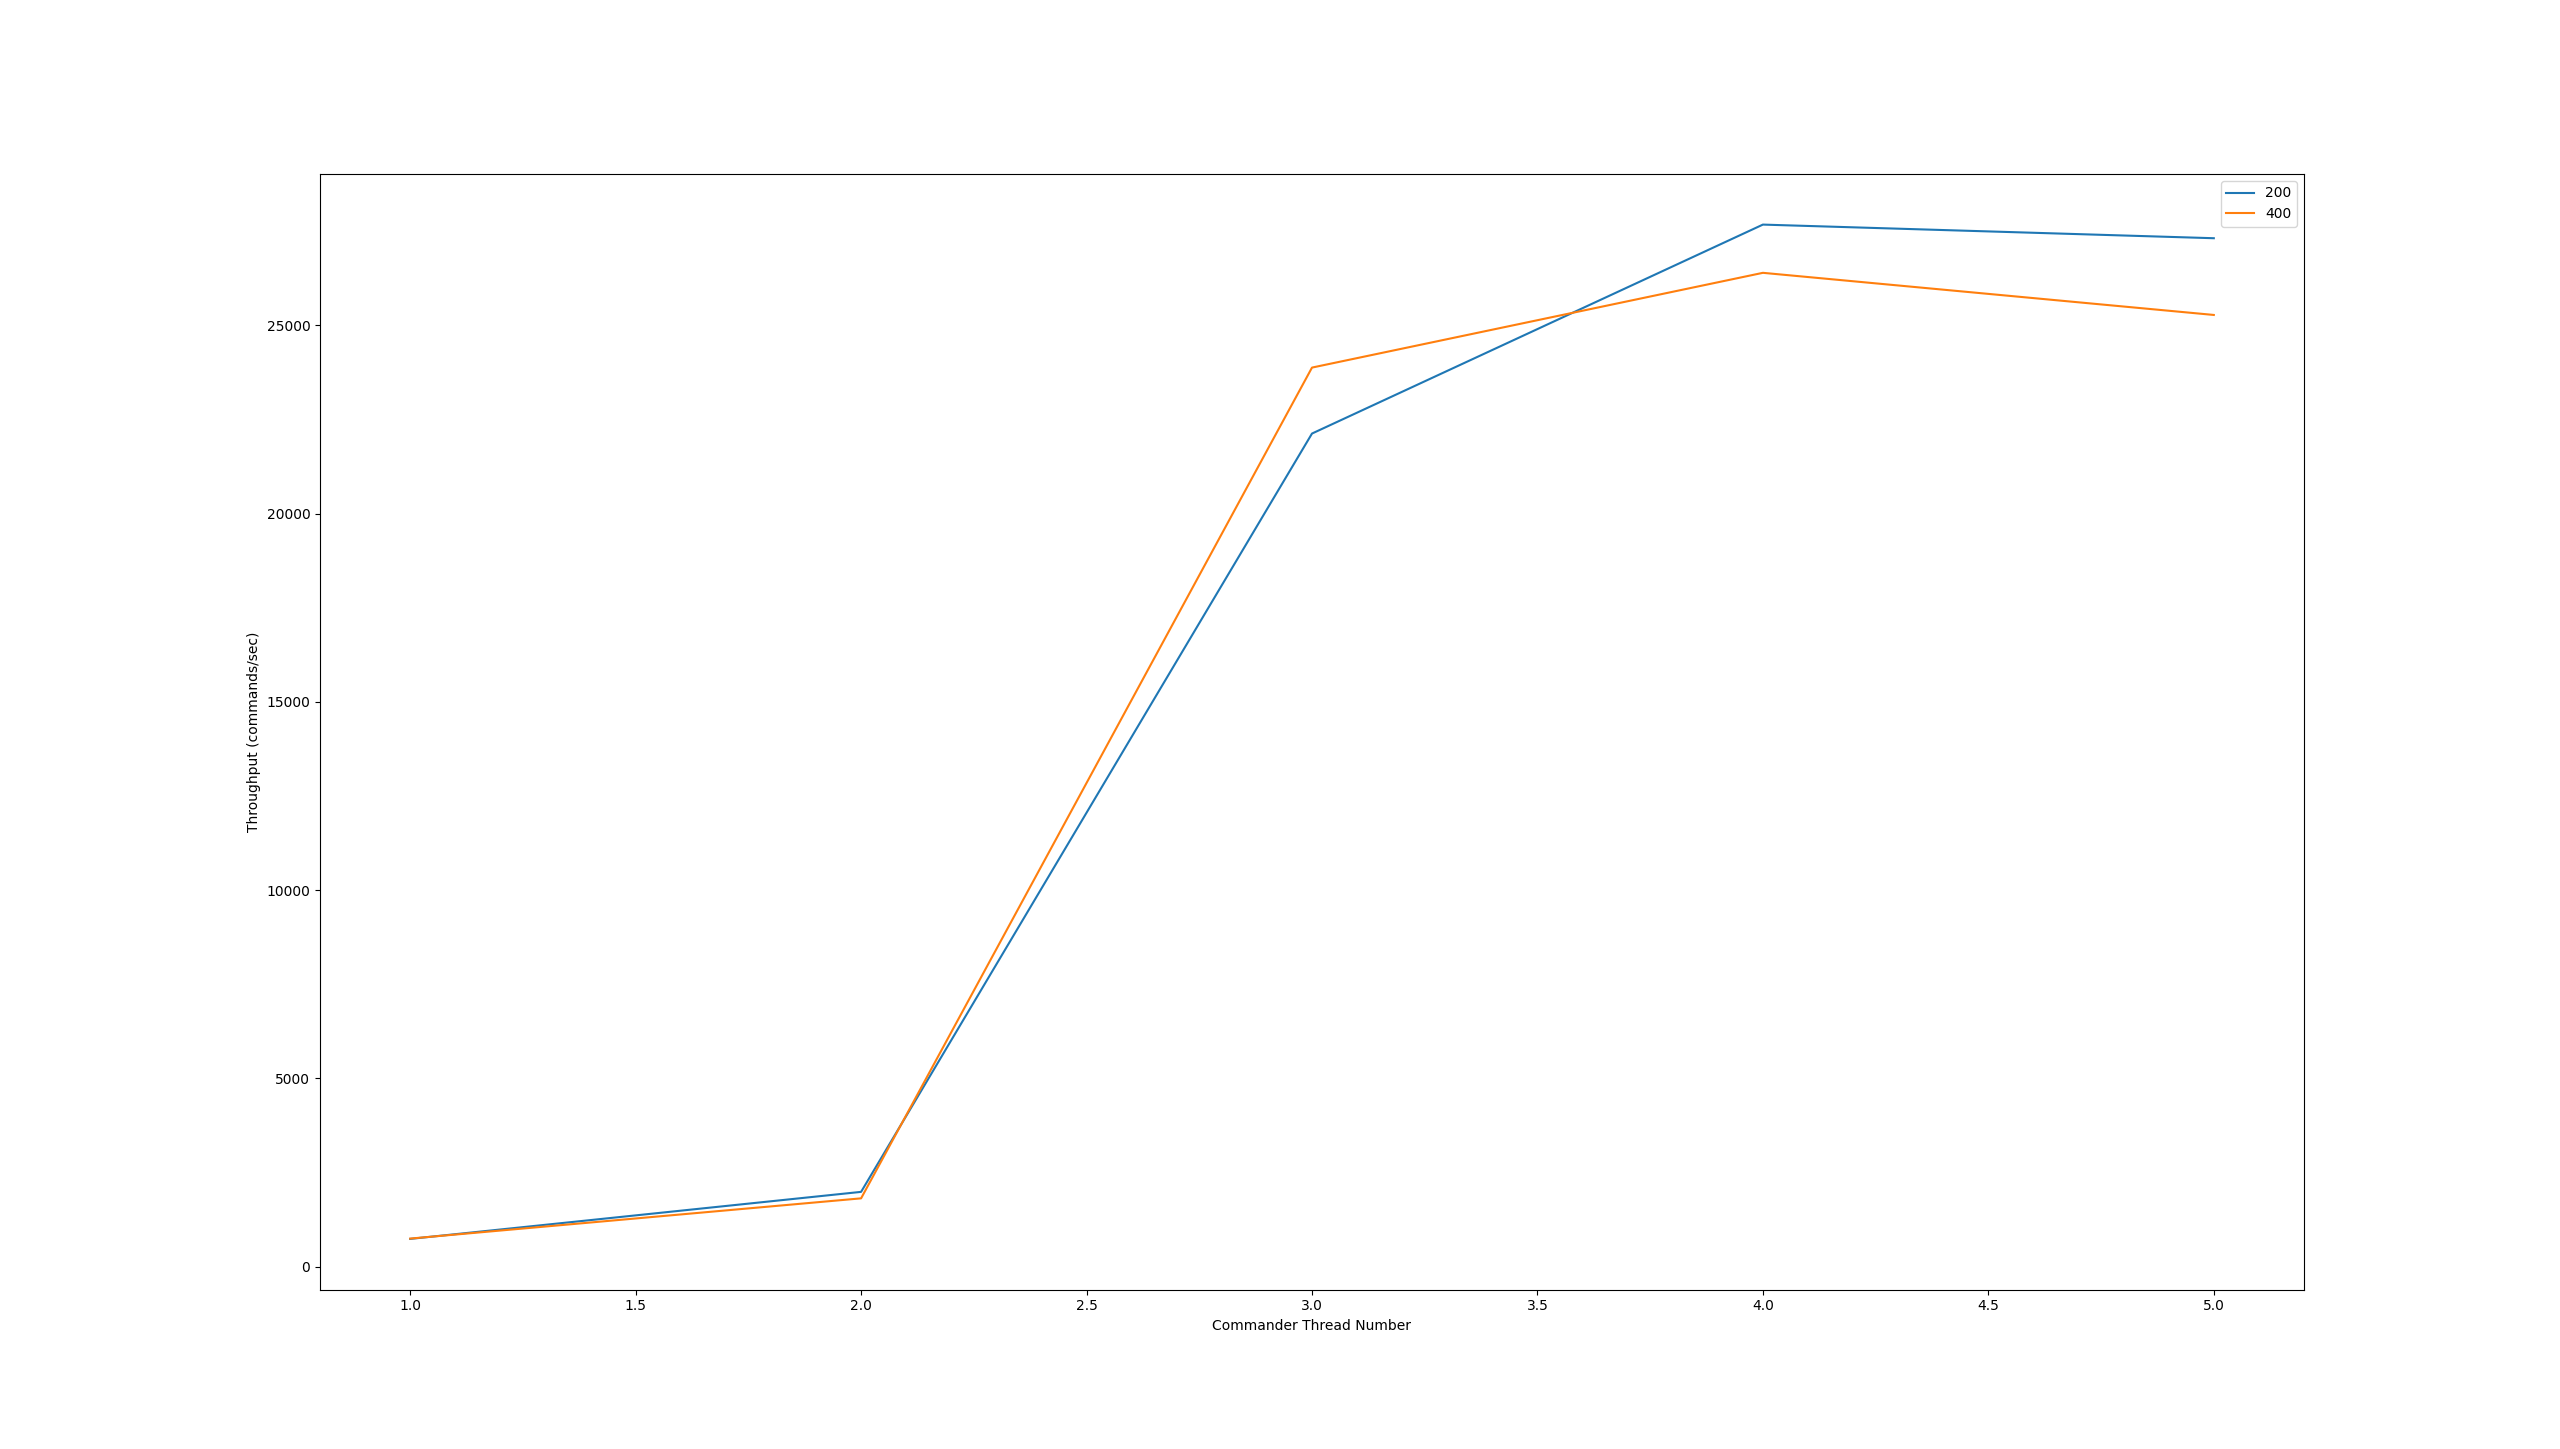
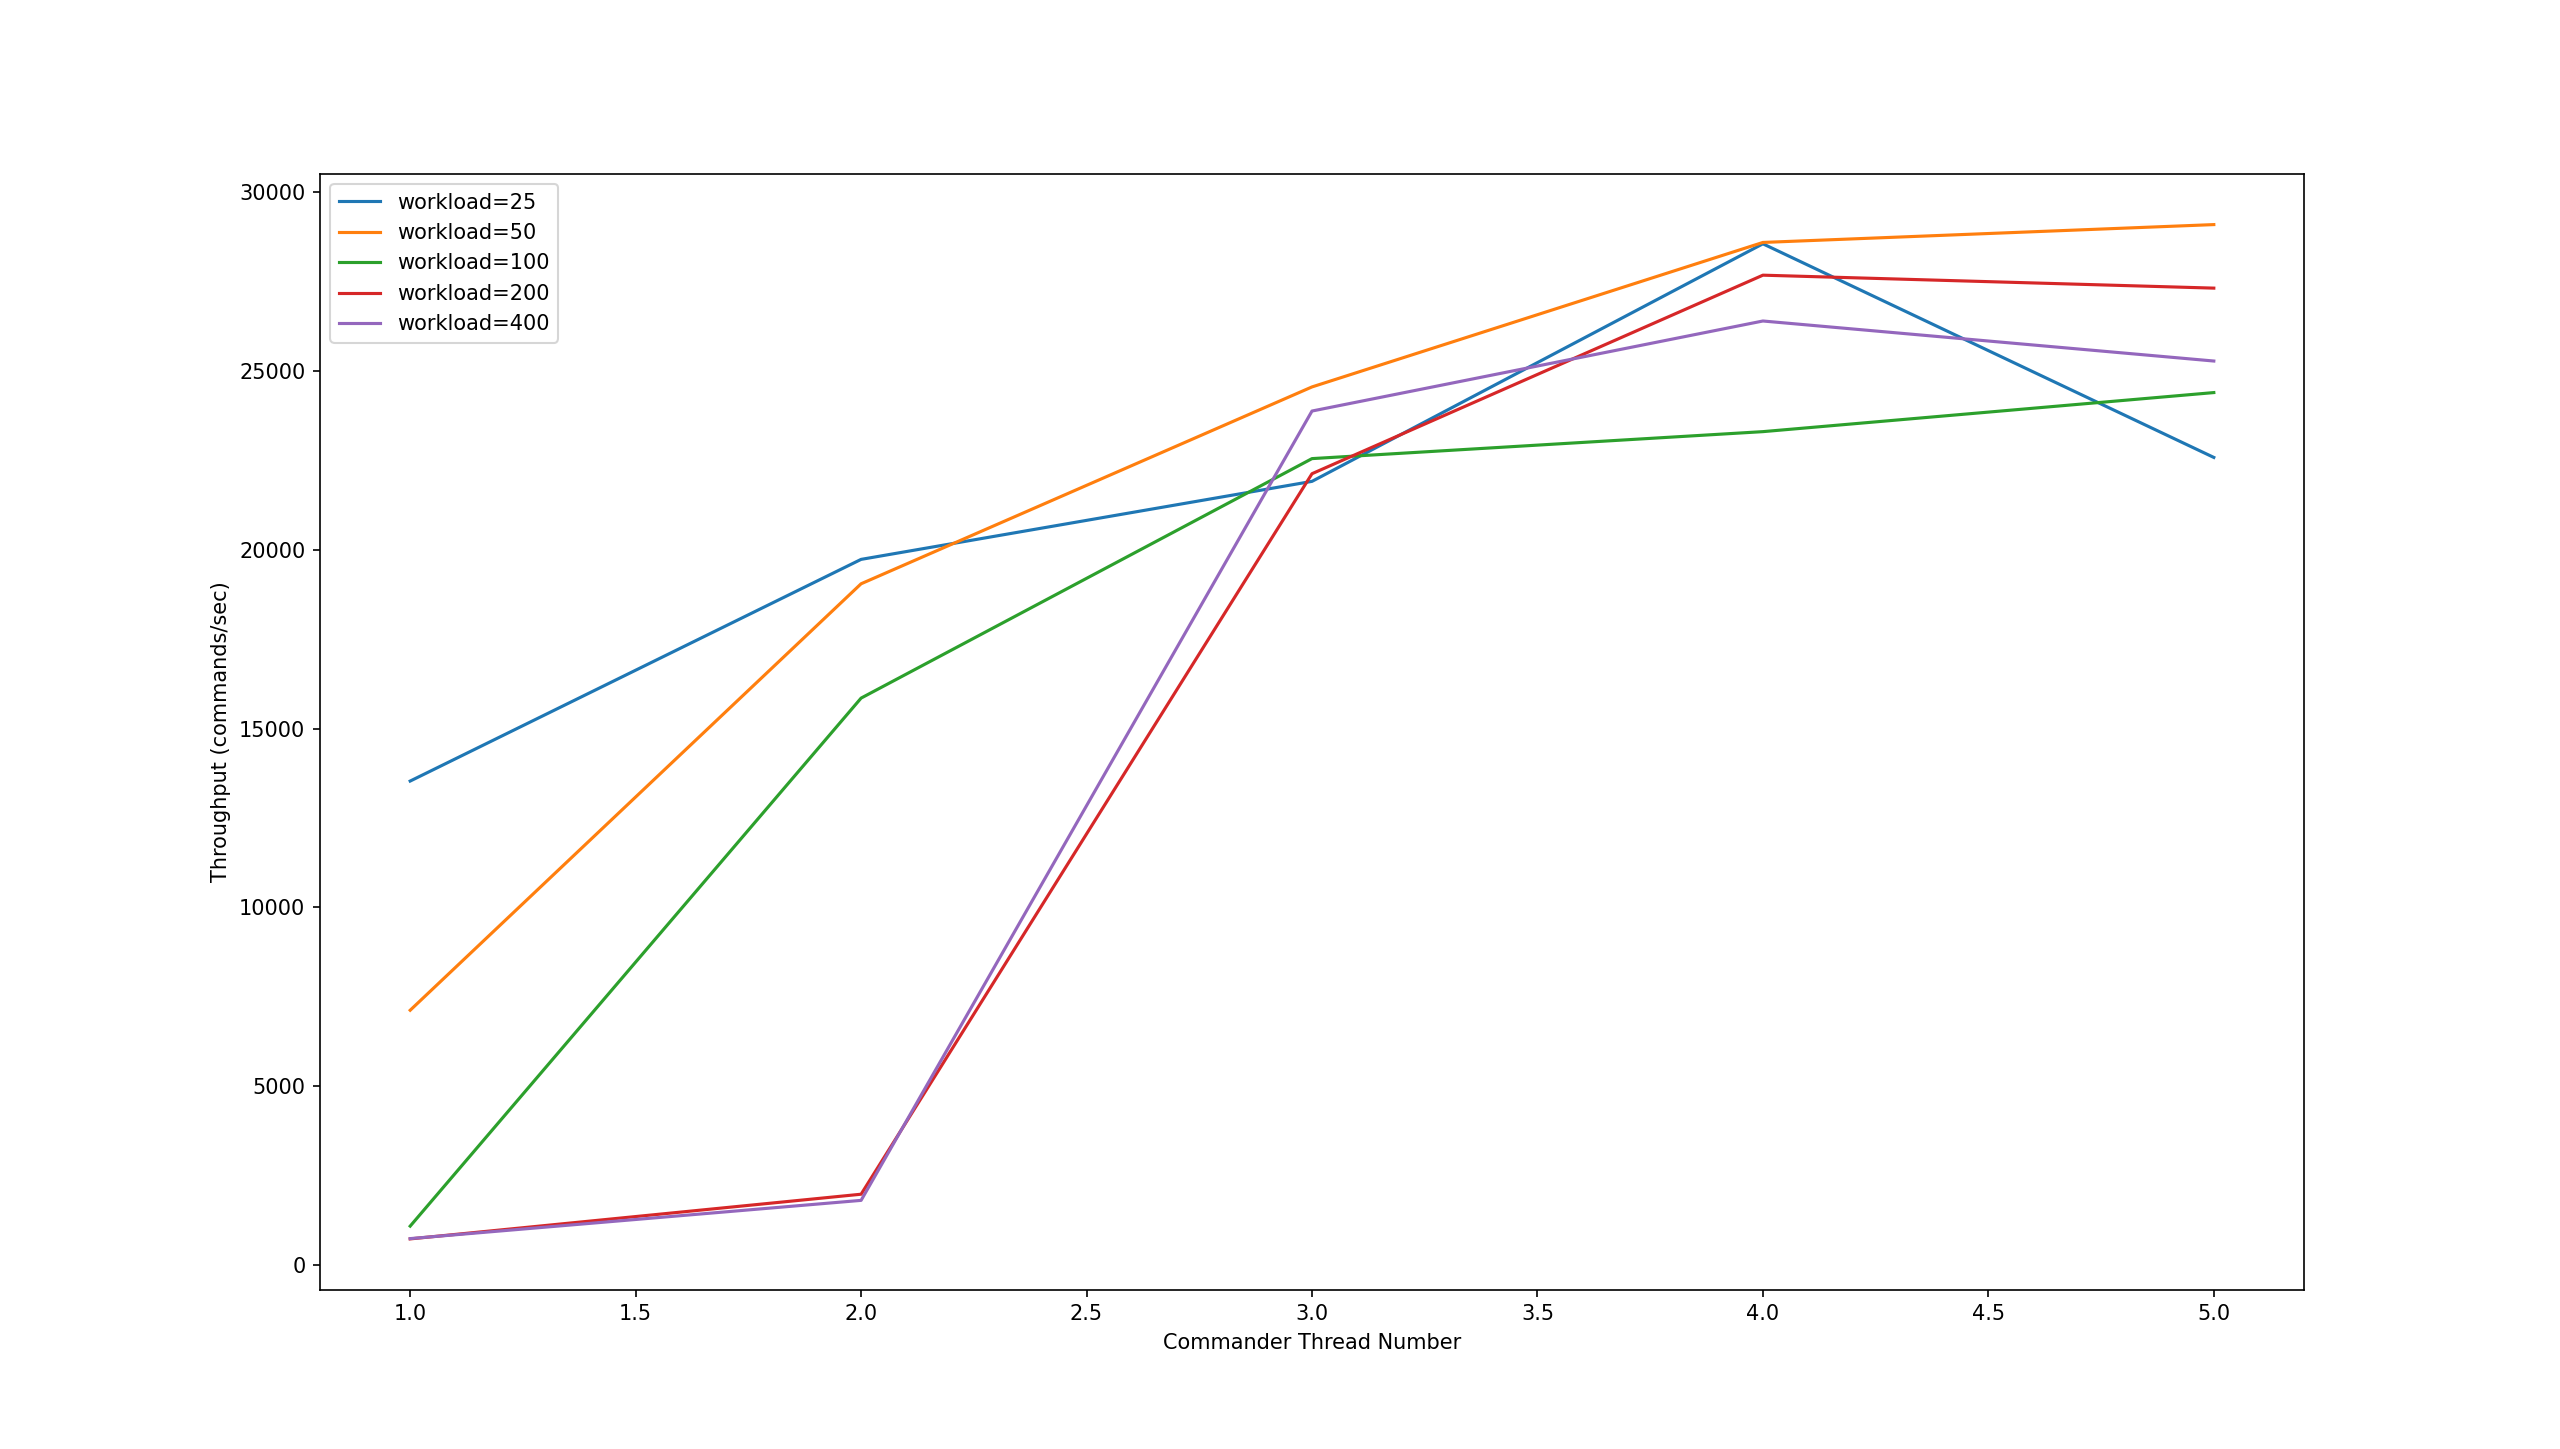
Change graph dpi. Modify x_labels when using ^Cread num as x axis

diff --git a/measurement/graph.py b/measurement/graph.py
@@ -77,12 +77,13 @@ print('\n\nPlot graph')
 x_list = sorted(list(lines[0][1].keys()))
 print(x_list)
 #print(lines)
+plt.figure(dpi=150)
 for num, means in lines:
     y_list = []
     for x in x_list:
         y_list.append(means[x])
     print(num, ':', y_list)
-    plt.plot(x_list, y_list, label=str(num))
+    plt.plot(x_list, y_list, label='workload='+str(num))
 
 plt.legend(loc = "best")
 if thread_num_as_x_axis:
